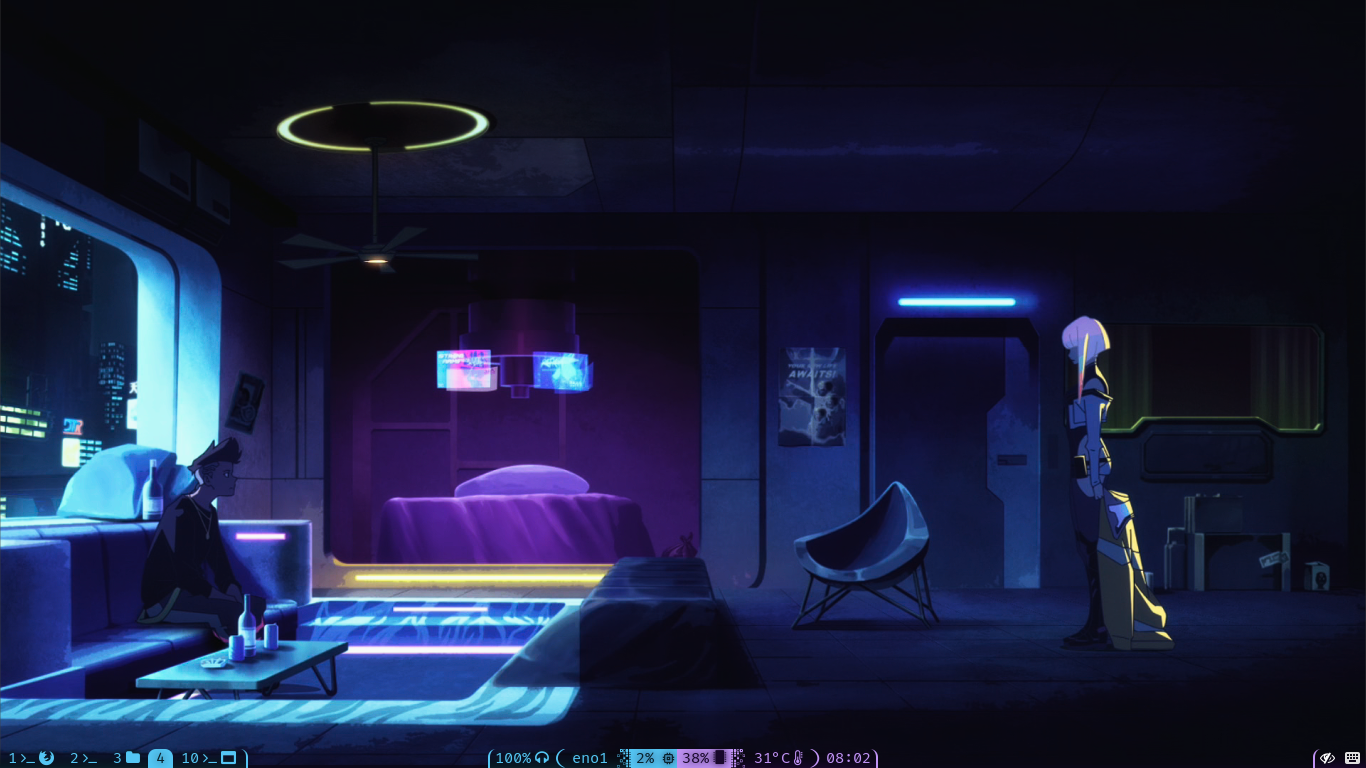
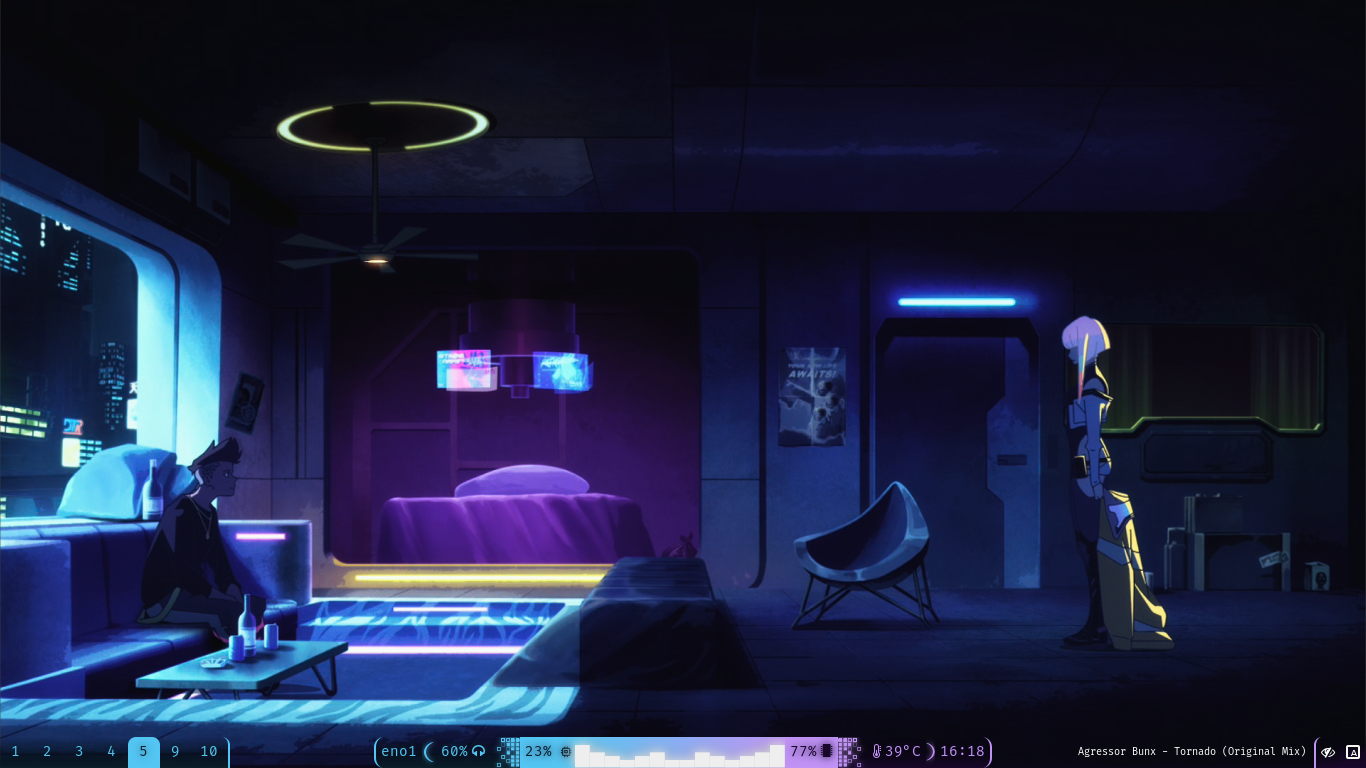
Updating Screenshots and putting it to README

diff --git a/README.md b/README.md
@@ -1,3 +1,6 @@
 _under construction_
 
 folders in `config/` goes to `~/.config/`
+
+![](ss/01.png)
+![](ss/02.png)
